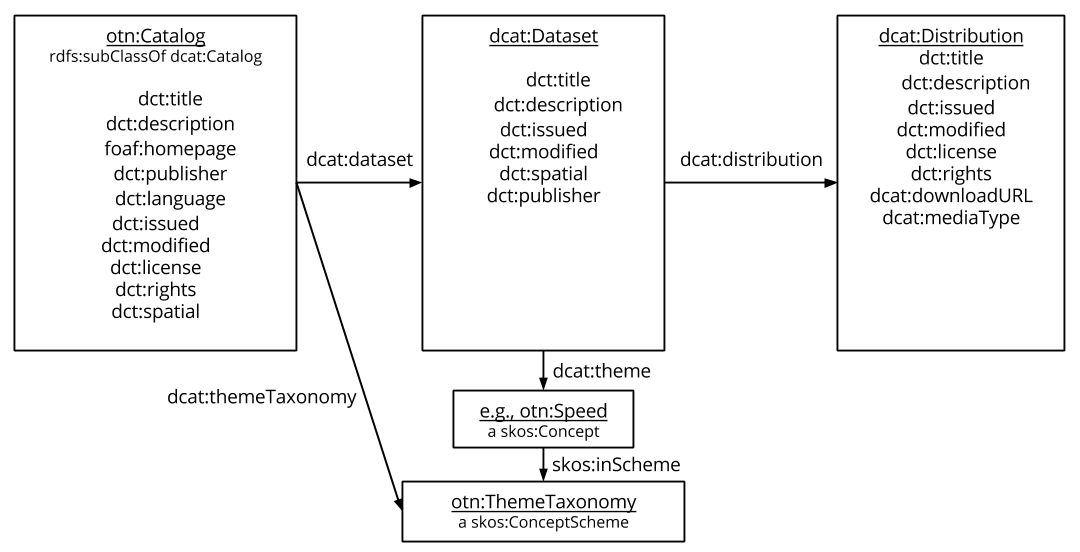
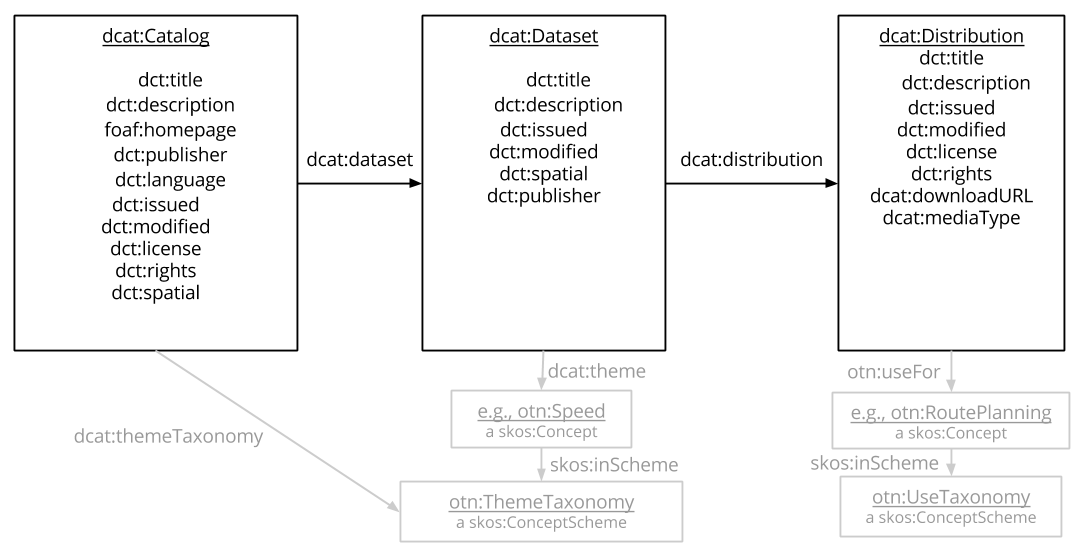
Last version pushed

diff --git a/index.html b/index.html
@@ -121,7 +121,7 @@
 
         <div class="illustration">
           <p><img src="OTN-MP.png" alt="The OTN-MP core vocabulary" /></p>
-          <p class="caption">The OTN-MP core vocabulary</p>
+          <p class="caption">The OTN-MP core vocabulary. In black: mandatory, in gray: optional.</p>
         </div>
 
         <p>An alphabetical index of the classes and properties of OTN-MP is
@@ -136,17 +136,7 @@
           Below we have added an example description of a dataset in the city of antwerp in the [[turtle]] RDF serialization.
         </p>
         <pre class="example" title="A data catalog of the city of Antwerp in text/turtle format">
-          &lt;http://api.antwerpen.be/v1/TDTInfo/Resources&gt; a otn:Catalog ;
-          dct:title "The Open Data catalog of the city of Antwerp"@en ;
-          dcat:spatial &lt;http://sws.geonames.org/2803139/&gt; ;
-          dcat:dataset &lt;http://datasets.antwerpen.be/v1/geografie/snelheid&gt; .
-        </pre>
-
-        <pre class="example" title="A dataset in the city of Antwerp in text/turtle format">
-          &lt;http://datasets.antwerpen.be/v1/geografie/snelheid&gt; a dcat:Dataset ;
-          dct:title "Speed limits in Antwerp"@en ;
-          dcat:theme otn:speed ;
-          dct:spatial &lt;http://sws.geonames.org/2803139/&gt; .
+          Check the example in <a href="examples/antwerp.ttl">this turtle file</a>
         </pre>
       </section>
       
@@ -158,17 +148,11 @@
         This section lists objects and properties that <em title="MUST" class="rfc2119">must</em> or <em title="MAY" class="rfc2119">may</em> be given in an otn:Catalog in accordance with: [DCAT], [INSPIRE] or an ISO standard. Each time is mentioned which [DCAT] URI can be used and how to fill it out to also be in accordance with [INSPIRE].
       </p>
       <section>
-        <h3><a href="http://semweb.mmlab.be/ns/otn-mp#Catalog">otn:Catalog</a></h3>
-        <p>otn:Catalog is a subclass of dcat:Catalog. It <em title="SHOULD" class="rfc2119">should</em> be given as an rdf:type to a dcat:Catalog that <em title="MUST" class="rfc2119">must</em> have all of the properties mentioned below.</p>
-
+        <h3>dcat:Catalog</h3>
         <section>
           <h4><a href="http://purl.org/dc/terms/title">dct:title</a></h4>
           <p>A dc terms title <em title="MUST" class="rfc2119">must</em> be given to the catalog to give a title which can be reused as part of a heading for user interfaces.</p>
           <p>This title <em title="SHOULD" class="rfc2119">should</em> be available in all languages in the EU.</p>
-          <pre class="example" title="Titles which can be given to an OTN catalog">
-            &lt;http://api.antwerpen.be/v1/TDTInfo/Resources&gt; dct:title "Open Data Antwerp"@en ,
-                                                                     "Open Data Antwerpen"@nl .
-          </pre>
         </section>
 
       </section>
